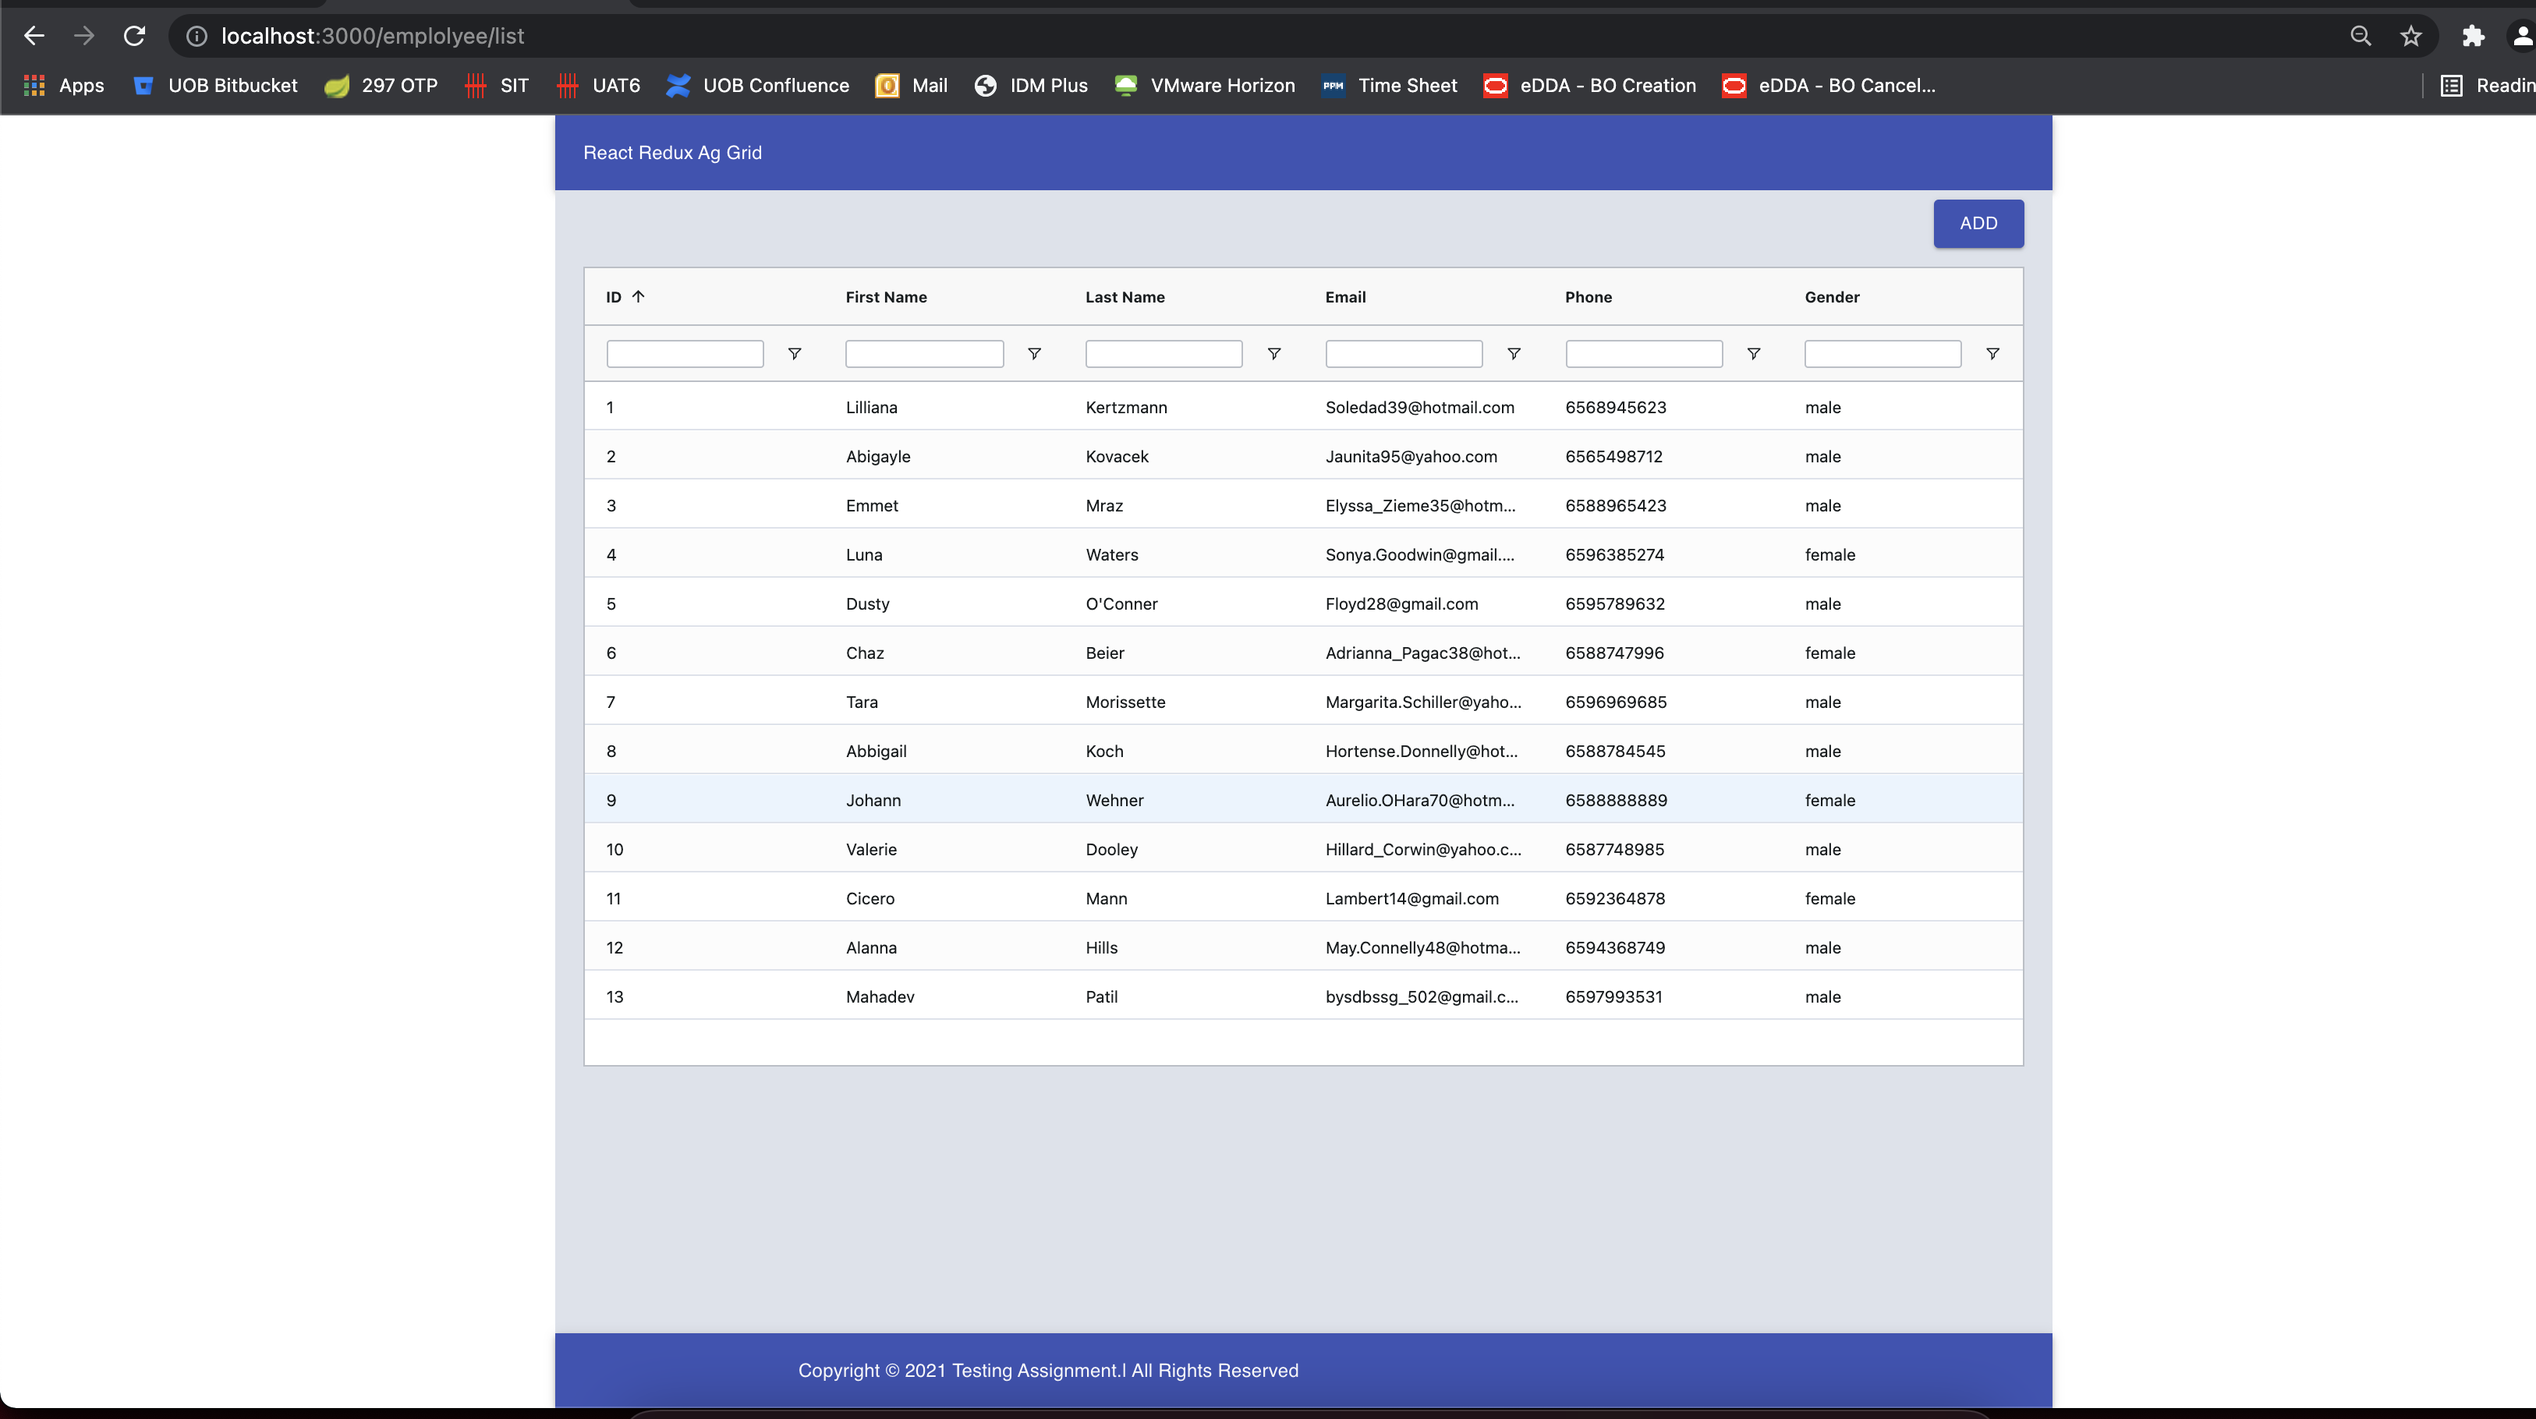
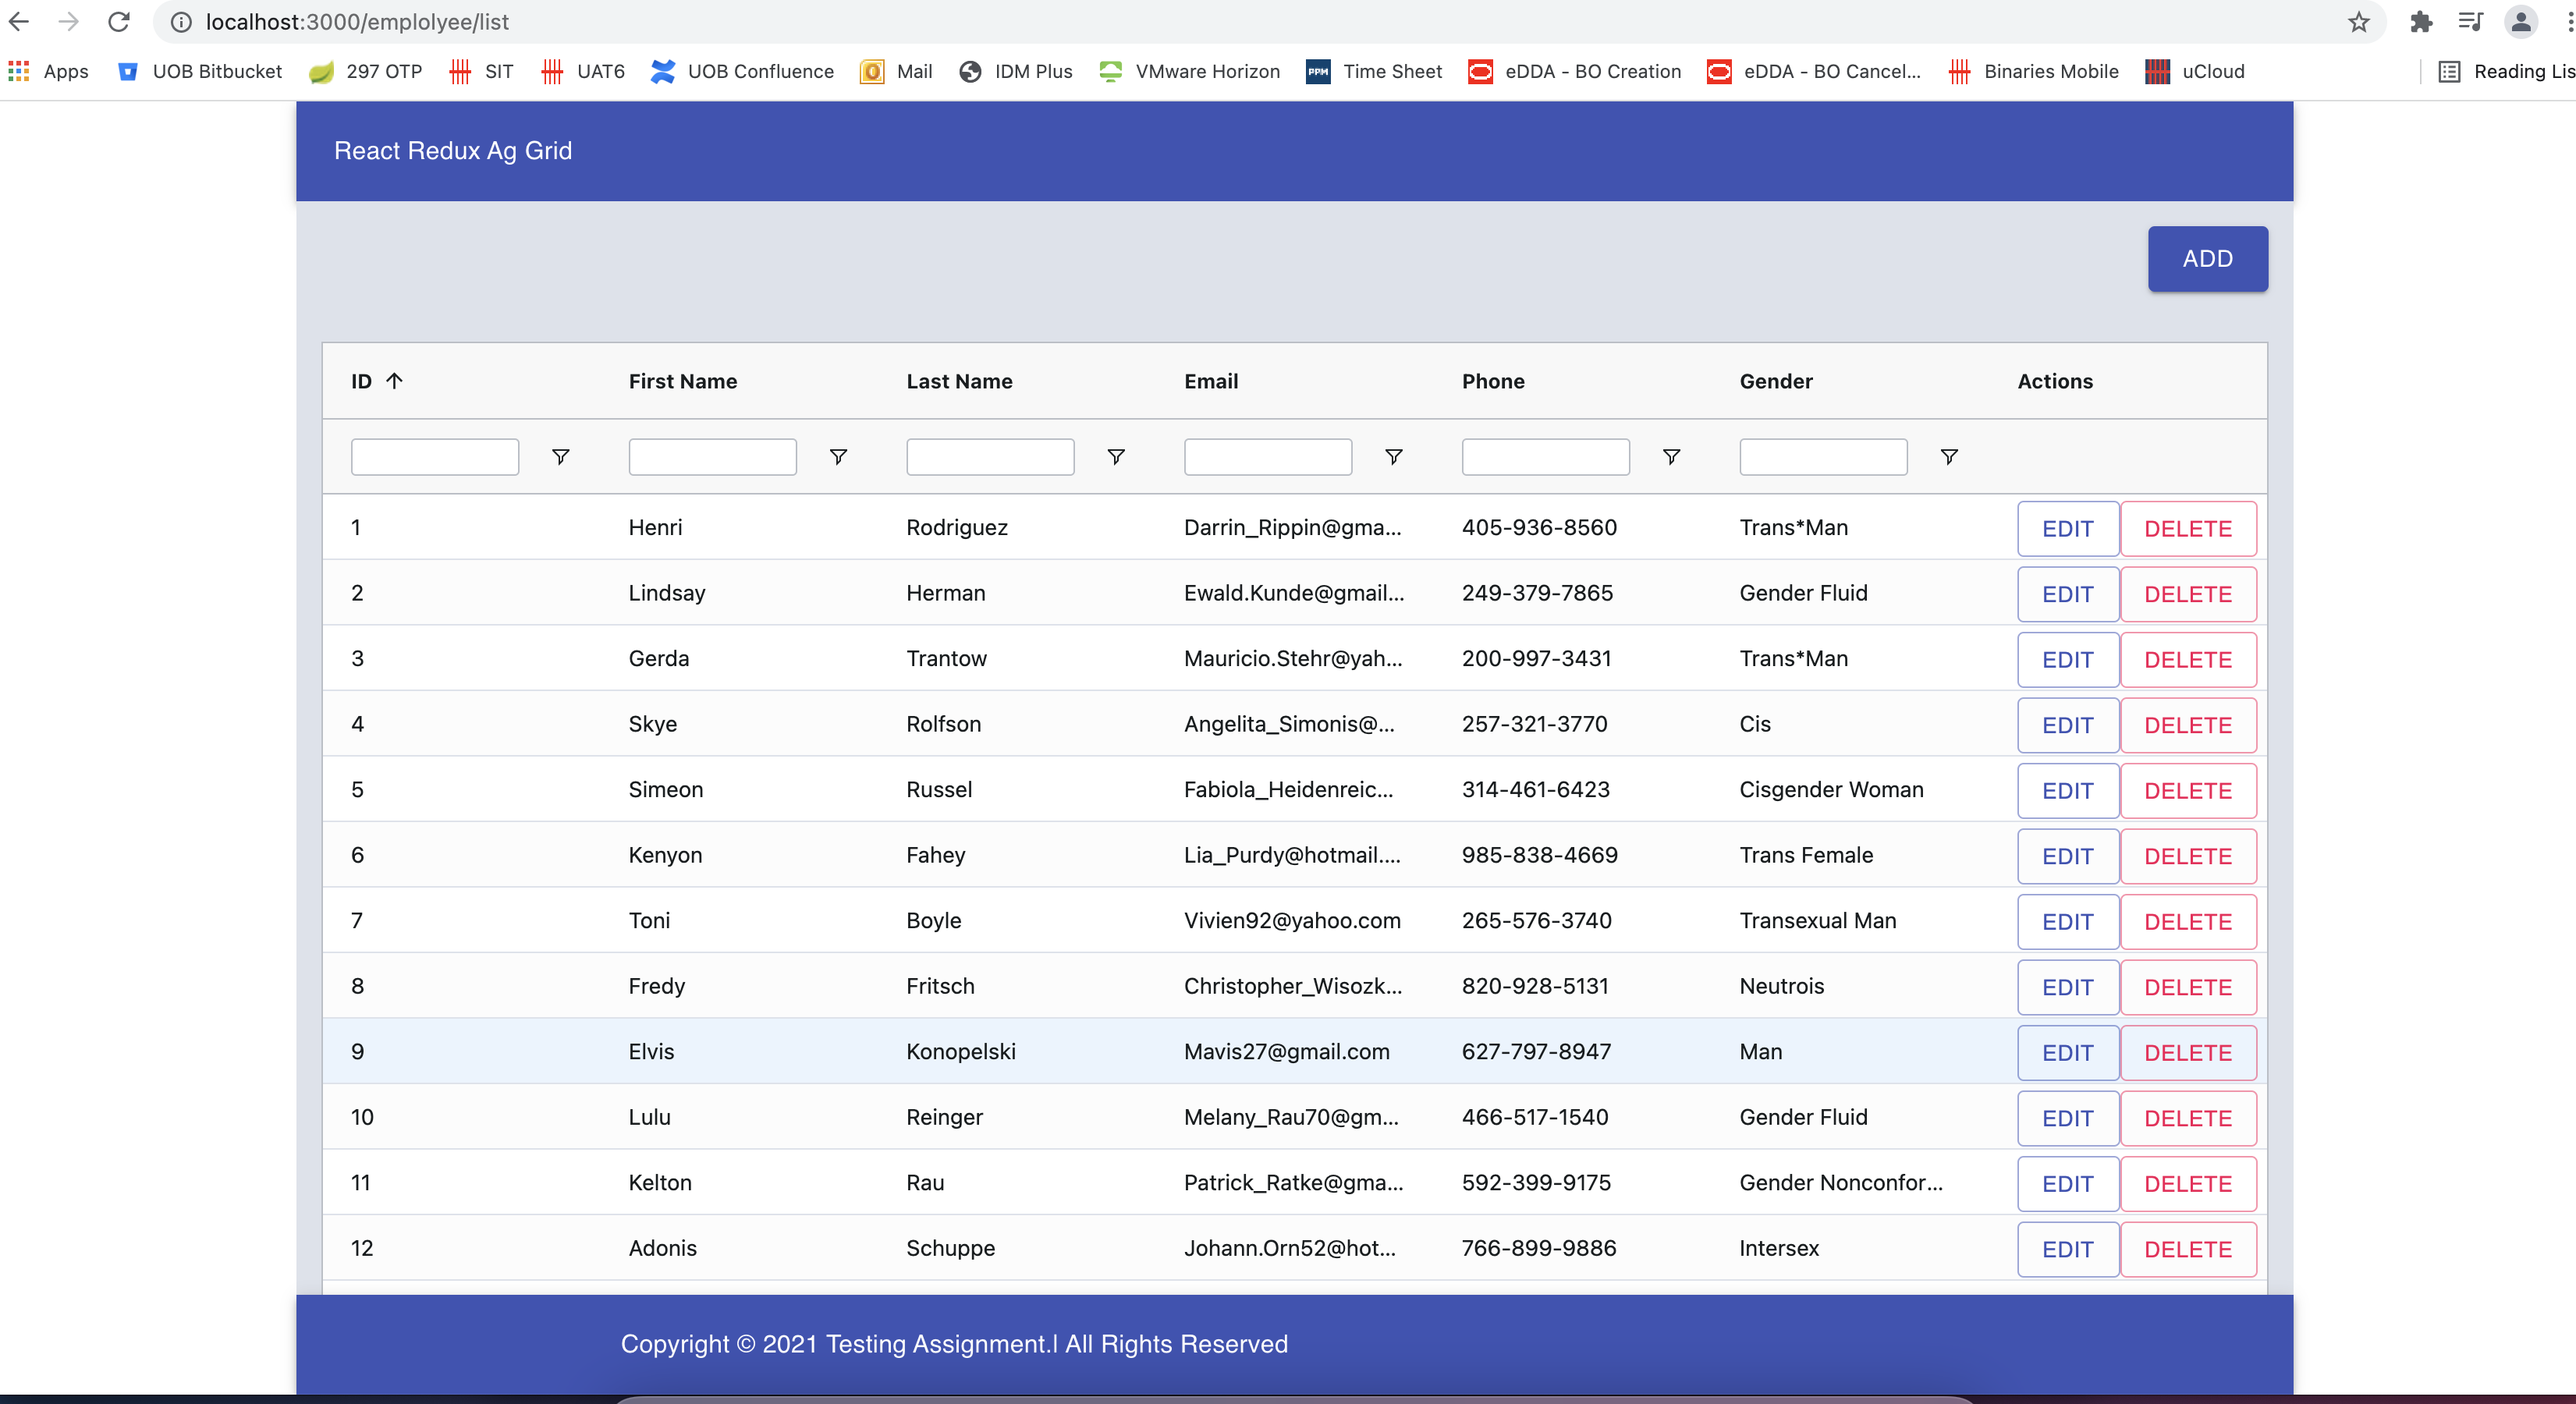
updated readme file

diff --git a/README.md b/README.md
@@ -1,10 +1,6 @@
-# React Redux, Ag Grid, Material UI project
+# GIC FE Technical Test
 
-This is project for React Redux, Ag Grid, Material UI
-
-# Getting Started with Create React App
-
-This project was bootstrapped with [Create React App](https://github.com/facebook/create-react-app).
+This is project for React React-router Redux, Ag Grid, Material UI
 
 ## Available Scripts
 
@@ -33,11 +29,19 @@ Your app is ready to be deployed!
 
 See the section about [deployment](https://facebook.github.io/create-react-app/docs/deployment) for more information.
 
-# Result - Tabular list, add item using Ag Grid, Redux, Material UI and Formik
+# Screens
+## AG GRID Table list
 
 ![Screenshot](assets/ag-grid-table-list.png)
 
-![Screenshot](assets/formik-add-item.png)
+## Add employee
+![Screenshot](assets/add.png)
+
+## Edit Employee
+![Screenshot](assets/edit.png)
+
+## Delete Employee
+![Screenshot](assets/delete.png)
 
 # Unit Test cases
 ![Screenshot](assets/unit-tests.png)
